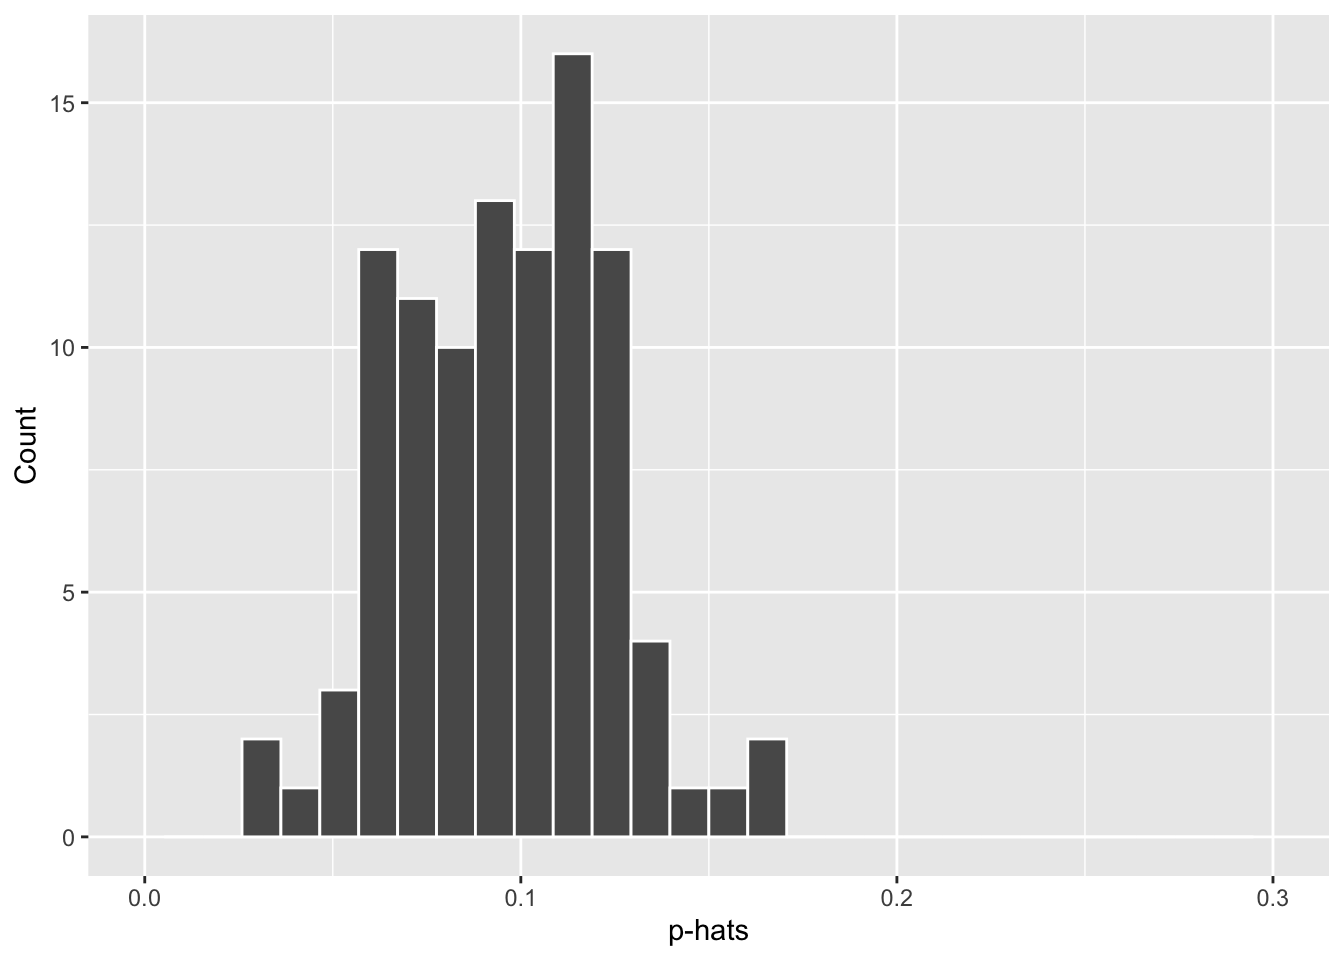
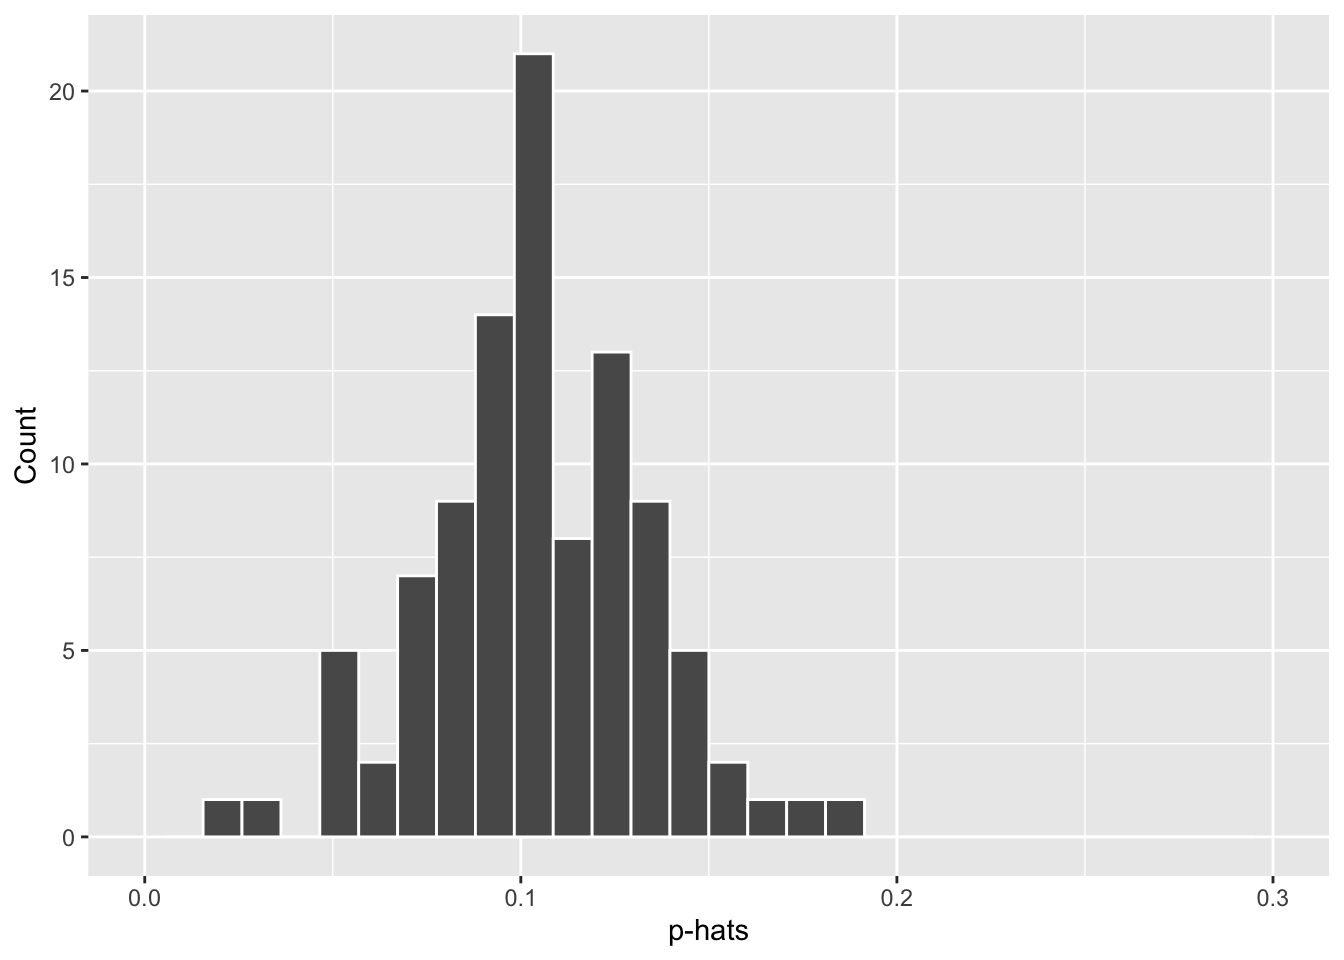
Updates

diff --git a/docs/success-failure-condition.html b/docs/success-failure-condition.html
@@ -186,11 +186,11 @@ thumb is easy enough to follow, but it makes you wonder: what's so special about
 <p>Using the numerical and graphical summaries below, describe the sampling distribution of sample proportions at <span class="math inline">\(n=100\)</span> and <span class="math inline">\(p=0.1\)</span>. Be sure to note the centre, spread, and shape.</p>
 <p><img src="main_files/figure-html/plotex6-1.png" width="672" style="display: block; margin: auto;" /></p>
 <pre><code>##    Min. 1st Qu.  Median    Mean 3rd Qu.    Max. 
-## 0.03087 0.07413 0.09726 0.09562 0.11641 0.16842</code></pre>
+## 0.02339 0.08862 0.10223 0.10472 0.12438 0.18306</code></pre>
 <p><br></p>
 <strong>Describe the sampling distribution of sample proportions at n=100 and p=0.1. Consider the centre, spread, and shape.</strong>
-<div id="radio_NRXOWRNGPI" class="webex-radiogroup">
-<label><input type="radio" autocomplete="off" name="radio_NRXOWRNGPI" value="answer"></input> <span>The distribution seems approximately Normal, centred around the mean (approximately equal to p) and a relatively large spread/standard deviation since n=100 isn’t particularly large.</span></label><label><input type="radio" autocomplete="off" name="radio_NRXOWRNGPI" value=""></input> <span>The distribution seems approximately Poisson, centred around the mean (approximately equal to p) and a relatively large spread/standard deviation since n=100 isn’t particularly large.</span></label><label><input type="radio" autocomplete="off" name="radio_NRXOWRNGPI" value=""></input> <span>The distribution seems approximately Binomial, centred around the median and a tiny spread/standard deviation since n=100 is huge.</span></label><label><input type="radio" autocomplete="off" name="radio_NRXOWRNGPI" value=""></input> <span>The distribution seems approximately Normal, centred around n=100 and a relatively large spread/standard deviation since n=100 isn’t particularly large.</span></label>
+<div id="radio_YITNZOBRLM" class="webex-radiogroup">
+<label><input type="radio" autocomplete="off" name="radio_YITNZOBRLM" value=""></input> <span>The distribution seems approximately Binomial, centred around the median and a tiny spread/standard deviation since n=100 is huge.</span></label><label><input type="radio" autocomplete="off" name="radio_YITNZOBRLM" value="answer"></input> <span>The distribution seems approximately Normal, centred around the mean (approximately equal to p) and a relatively large spread/standard deviation since n=100 isn’t particularly large.</span></label><label><input type="radio" autocomplete="off" name="radio_YITNZOBRLM" value=""></input> <span>The distribution seems approximately Poisson, centred around the mean (approximately equal to p) and a relatively large spread/standard deviation since n=100 isn’t particularly large.</span></label><label><input type="radio" autocomplete="off" name="radio_YITNZOBRLM" value=""></input> <span>The distribution seems approximately Normal, centred around n=100 and a relatively large spread/standard deviation since n=100 isn’t particularly large.</span></label>
 </div>
 <div class="webex-solution">
 <button>
@@ -211,8 +211,8 @@ Hint
 <span id="cb29-9"><a href="success-failure-condition.html#cb29-9" aria-hidden="true" tabindex="-1"></a>  <span class="fu">labs</span>(<span class="at">y =</span><span class="st">&quot;Count&quot;</span>, <span class="at">x =</span> <span class="st">&quot;p-hats&quot;</span>)</span></code></pre></div>
 <p><br></p>
 <strong>How does <span class="math inline">\(n\)</span> appear to affect the distribution of p-hat?</strong>
-<div id="radio_ETTRJWFYUN" class="webex-radiogroup">
-<label><input type="radio" autocomplete="off" name="radio_ETTRJWFYUN" value=""></input> <span>An increase in n appears to give a wider, more spread out distribution of p-hat.</span></label><label><input type="radio" autocomplete="off" name="radio_ETTRJWFYUN" value="answer"></input> <span>A decrease in n does not appear to affect the centre/symmetric point of the graph, however it does result in a much wider/more spread out distribution.</span></label><label><input type="radio" autocomplete="off" name="radio_ETTRJWFYUN" value=""></input> <span>There doesn't seem to be any significant effect of n on p-hat.</span></label><label><input type="radio" autocomplete="off" name="radio_ETTRJWFYUN" value=""></input> <span>An increase/decrease in n appears to shift the centre point of the distribution left/right.</span></label>
+<div id="radio_KHQPWNYYRA" class="webex-radiogroup">
+<label><input type="radio" autocomplete="off" name="radio_KHQPWNYYRA" value=""></input> <span>There doesn't seem to be any significant effect of n on p-hat.</span></label><label><input type="radio" autocomplete="off" name="radio_KHQPWNYYRA" value=""></input> <span>An increase/decrease in n appears to shift the centre point of the distribution left/right.</span></label><label><input type="radio" autocomplete="off" name="radio_KHQPWNYYRA" value="answer"></input> <span>A decrease in n does not appear to affect the centre/symmetric point of the graph, however it does result in a much wider/more spread out distribution.</span></label><label><input type="radio" autocomplete="off" name="radio_KHQPWNYYRA" value=""></input> <span>An increase in n appears to give a wider, more spread out distribution of p-hat.</span></label>
 </div>
 <div class="webex-solution">
 <button>
@@ -233,8 +233,8 @@ Hint
 <span id="cb30-9"><a href="success-failure-condition.html#cb30-9" aria-hidden="true" tabindex="-1"></a>  <span class="fu">labs</span>(<span class="at">y =</span><span class="st">&quot;Count&quot;</span>, <span class="at">x =</span> <span class="st">&quot;p-hats&quot;</span>)</span></code></pre></div>
 <p><br></p>
 <strong>How does <span class="math inline">\(p\)</span> appear to affect the distribution of p-hat?</strong>
-<div id="radio_RKPHTBKXCS" class="webex-radiogroup">
-<label><input type="radio" autocomplete="off" name="radio_RKPHTBKXCS" value="answer"></input> <span>A decrease in p does not appear to affect the width, however the centre/symmetric point shifts.</span></label><label><input type="radio" autocomplete="off" name="radio_RKPHTBKXCS" value=""></input> <span>There doesn't seem to be any significant effect of p on p-hat.</span></label><label><input type="radio" autocomplete="off" name="radio_RKPHTBKXCS" value=""></input> <span>Increasing p shifts the centre/symmetric point of the distribution to the left.</span></label><label><input type="radio" autocomplete="off" name="radio_RKPHTBKXCS" value=""></input> <span>The width/spread of the distribution also decreases as p decreases.</span></label>
+<div id="radio_NKUGXOMLKQ" class="webex-radiogroup">
+<label><input type="radio" autocomplete="off" name="radio_NKUGXOMLKQ" value=""></input> <span>There doesn't seem to be any significant effect of p on p-hat.</span></label><label><input type="radio" autocomplete="off" name="radio_NKUGXOMLKQ" value="answer"></input> <span>A decrease in p does not appear to affect the width, however the centre/symmetric point shifts.</span></label><label><input type="radio" autocomplete="off" name="radio_NKUGXOMLKQ" value=""></input> <span>Increasing p shifts the centre/symmetric point of the distribution to the left.</span></label><label><input type="radio" autocomplete="off" name="radio_NKUGXOMLKQ" value=""></input> <span>The width/spread of the distribution also decreases as p decreases.</span></label>
 </div>
 <div class="webex-solution">
 <button>

diff --git a/docs/how-does-the-proportion-affect-the-margin-of-error.html b/docs/how-does-the-proportion-affect-the-margin-of-error.html
@@ -202,8 +202,8 @@ Since the population proportion <span class="math inline">\(p\)</span> is in thi
 <p><img src="main_files/figure-html/me-plot-1.png" width="672" style="display: block; margin: auto;" /></p>
 <p><br></p>
 <strong>How would you describe the relationship between <code>p</code> and <code>ME</code>?</strong>
-<div id="radio_DMGXFUPCIZ" class="webex-radiogroup">
-<label><input type="radio" autocomplete="off" name="radio_DMGXFUPCIZ" value="answer"></input> <span>p and ME have a quadratic or parabolic relationship.</span></label><label><input type="radio" autocomplete="off" name="radio_DMGXFUPCIZ" value=""></input> <span>They have a linear relationship.</span></label><label><input type="radio" autocomplete="off" name="radio_DMGXFUPCIZ" value=""></input> <span>p and ME do not appear to be related.</span></label><label><input type="radio" autocomplete="off" name="radio_DMGXFUPCIZ" value=""></input> <span>They have an inverse cubic relationship.</span></label>
+<div id="radio_ZMRIORYWRI" class="webex-radiogroup">
+<label><input type="radio" autocomplete="off" name="radio_ZMRIORYWRI" value=""></input> <span>They have an inverse cubic relationship.</span></label><label><input type="radio" autocomplete="off" name="radio_ZMRIORYWRI" value=""></input> <span>p and ME do not appear to be related.</span></label><label><input type="radio" autocomplete="off" name="radio_ZMRIORYWRI" value="answer"></input> <span>p and ME have a quadratic or parabolic relationship.</span></label><label><input type="radio" autocomplete="off" name="radio_ZMRIORYWRI" value=""></input> <span>They have a linear relationship.</span></label>
 </div>
 <div class="webex-solution">
 <button>
@@ -213,8 +213,8 @@ Hint
 </div>
 <p><br></p>
 <strong>Select the incorrect statement about the p/me equation/graph.</strong>
-<div id="radio_TMCTTGZGDM" class="webex-radiogroup">
-<label><input type="radio" autocomplete="off" name="radio_TMCTTGZGDM" value=""></input> <span>If we were to increase the sample size n, the range of possible values for the margin of error would decrease.</span></label><label><input type="radio" autocomplete="off" name="radio_TMCTTGZGDM" value="answer"></input> <span>Changing the value of n would make no difference to the graph.</span></label><label><input type="radio" autocomplete="off" name="radio_TMCTTGZGDM" value=""></input> <span>If we lower our confidence value, say from 95% to 90%, the range of plausible values for the margin of error would decrease.</span></label><label><input type="radio" autocomplete="off" name="radio_TMCTTGZGDM" value=""></input> <span>You can work out exactly for which value of p the margin of error is maximised mathematically using differentiation.</span></label>
+<div id="radio_MZKECTMTGO" class="webex-radiogroup">
+<label><input type="radio" autocomplete="off" name="radio_MZKECTMTGO" value="answer"></input> <span>Changing the value of n would make no difference to the graph.</span></label><label><input type="radio" autocomplete="off" name="radio_MZKECTMTGO" value=""></input> <span>If we lower our confidence value, say from 95% to 90%, the range of plausible values for the margin of error would decrease.</span></label><label><input type="radio" autocomplete="off" name="radio_MZKECTMTGO" value=""></input> <span>You can work out exactly for which value of p the margin of error is maximised mathematically using differentiation.</span></label><label><input type="radio" autocomplete="off" name="radio_MZKECTMTGO" value=""></input> <span>If we were to increase the sample size n, the range of possible values for the margin of error would decrease.</span></label>
 </div>
 <div class="webex-solution">
 <button>
@@ -226,8 +226,8 @@ Hint
 <p>Is this the relationship you expected based on the formula <span class="math inline">\(ME = 1.96\times\sqrt{p(1-p)/n} \,\)</span> ?</p>
 <p><br></p>
 <strong>For a given sample size, for which value of <span class="math inline">\(p\)</span> is the margin of error (<span class="math inline">\(ME\)</span>) maximized?</strong>
-<div id="radio_STCIYKFLIE" class="webex-radiogroup">
-<label><input type="radio" autocomplete="off" name="radio_STCIYKFLIE" value="answer"></input> <span>ME is maximised when p = 0.5</span></label><label><input type="radio" autocomplete="off" name="radio_STCIYKFLIE" value=""></input> <span>ME is maximised when p = 1</span></label><label><input type="radio" autocomplete="off" name="radio_STCIYKFLIE" value=""></input> <span>ME is maximised when p = 0.33, or a third.</span></label><label><input type="radio" autocomplete="off" name="radio_STCIYKFLIE" value=""></input> <span>ME is maximised when p = 0</span></label>
+<div id="radio_OASGBICWME" class="webex-radiogroup">
+<label><input type="radio" autocomplete="off" name="radio_OASGBICWME" value=""></input> <span>ME is maximised when p = 0.33, or a third.</span></label><label><input type="radio" autocomplete="off" name="radio_OASGBICWME" value=""></input> <span>ME is maximised when p = 1</span></label><label><input type="radio" autocomplete="off" name="radio_OASGBICWME" value="answer"></input> <span>ME is maximised when p = 0.5</span></label><label><input type="radio" autocomplete="off" name="radio_OASGBICWME" value=""></input> <span>ME is maximised when p = 0</span></label>
 </div>
 <div class="webex-solution">
 <button>

diff --git a/docs/inference-on-proportions.html b/docs/inference-on-proportions.html
@@ -216,8 +216,8 @@ Solution
 </div>
 <p><br></p>
 <strong>What could you interpret from this confidence interval?</strong>
-<div id="radio_LBBVRVSTHI" class="webex-radiogroup">
-<label><input type="radio" autocomplete="off" name="radio_LBBVRVSTHI" value=""></input> <span>The proportion we calculated in outside of the interval calculated here, therefore we cannot make any valid interpretations.</span></label><label><input type="radio" autocomplete="off" name="radio_LBBVRVSTHI" value="answer"></input> <span>We are 95% confident the true proportion of non-helmet wearing students that texted while driving in all 30 of the previous 30 days is somewhere between 0.069 and 0.084.</span></label><label><input type="radio" autocomplete="off" name="radio_LBBVRVSTHI" value=""></input> <span>We are 95% confident the true proportion of non-helmet wearing students that texted while driving in all 30 of the previous 30 days is exactly 0.076, since this is inside the confidence interval.</span></label><label><input type="radio" autocomplete="off" name="radio_LBBVRVSTHI" value=""></input> <span>We are 90% confident the true proportion of non-helmet wearing students that texted while driving in all 30 of the previous 30 days is somewhere between 0.069 and 0.084.</span></label>
+<div id="radio_RSSJPBJFBN" class="webex-radiogroup">
+<label><input type="radio" autocomplete="off" name="radio_RSSJPBJFBN" value=""></input> <span>We are 90% confident the true proportion of non-helmet wearing students that texted while driving in all 30 of the previous 30 days is somewhere between 0.069 and 0.084.</span></label><label><input type="radio" autocomplete="off" name="radio_RSSJPBJFBN" value="answer"></input> <span>We are 95% confident the true proportion of non-helmet wearing students that texted while driving in all 30 of the previous 30 days is somewhere between 0.069 and 0.084.</span></label><label><input type="radio" autocomplete="off" name="radio_RSSJPBJFBN" value=""></input> <span>The proportion we calculated in outside of the interval calculated here, therefore we cannot make any valid interpretations.</span></label><label><input type="radio" autocomplete="off" name="radio_RSSJPBJFBN" value=""></input> <span>We are 95% confident the true proportion of non-helmet wearing students that texted while driving in all 30 of the previous 30 days is exactly 0.076, since this is inside the confidence interval.</span></label>
 </div>
 <div class="webex-solution">
 <button>
@@ -325,8 +325,8 @@ Solution (b)
 </div>
 <p><br></p>
 <strong>How could you compare the two CI for proportions calculated above?</strong>
-<div id="radio_TPAPFZENKV" class="webex-radiogroup">
-<label><input type="radio" autocomplete="off" name="radio_TPAPFZENKV" value=""></input> <span>The CI for the proportion of non-helmet wearing strength trainers seems far wider than the CI for the proportion of non-helmet wearing students with less than 5 hours sleep.</span></label><label><input type="radio" autocomplete="off" name="radio_TPAPFZENKV" value=""></input> <span>The proportion of non-helmet wearing strength trainers probably equals the proportion of non-helmet wearing students that gets less than 5 hours sleep.</span></label><label><input type="radio" autocomplete="off" name="radio_TPAPFZENKV" value=""></input> <span>We can make no comparisons between the two groups whatsoever at this stage of the analysis.</span></label><label><input type="radio" autocomplete="off" name="radio_TPAPFZENKV" value="answer"></input> <span>The proportion of non helmet wearing strength trainers is probably much greater than the proportion of non-helmet wearing people with less than 5 hours sleep, since the CI is far above.</span></label>
+<div id="radio_ZDWBFTNBDR" class="webex-radiogroup">
+<label><input type="radio" autocomplete="off" name="radio_ZDWBFTNBDR" value=""></input> <span>We can make no comparisons between the two groups whatsoever at this stage of the analysis.</span></label><label><input type="radio" autocomplete="off" name="radio_ZDWBFTNBDR" value="answer"></input> <span>The proportion of non helmet wearing strength trainers is probably much greater than the proportion of non-helmet wearing people with less than 5 hours sleep, since the CI is far above.</span></label><label><input type="radio" autocomplete="off" name="radio_ZDWBFTNBDR" value=""></input> <span>The CI for the proportion of non-helmet wearing strength trainers seems far wider than the CI for the proportion of non-helmet wearing students with less than 5 hours sleep.</span></label><label><input type="radio" autocomplete="off" name="radio_ZDWBFTNBDR" value=""></input> <span>The proportion of non-helmet wearing strength trainers probably equals the proportion of non-helmet wearing students that gets less than 5 hours sleep.</span></label>
 </div>
 <div class="webex-solution">
 <button>

diff --git a/docs/inference-for-categorical-data.html b/docs/inference-for-categorical-data.html
@@ -219,8 +219,8 @@ Solution
 </div>
 <p><br></p>
 <strong>Which category has the highest count?</strong>
-<div id="radio_ZCSRQQKSFH" class="webex-radiogroup">
-<label><input type="radio" autocomplete="off" name="radio_ZCSRQQKSFH" value="answer"></input> <span>0 of the last 30 days</span></label><label><input type="radio" autocomplete="off" name="radio_ZCSRQQKSFH" value=""></input> <span>6-9 of the last 30 days</span></label><label><input type="radio" autocomplete="off" name="radio_ZCSRQQKSFH" value=""></input> <span>All 30 of the last 30 days.</span></label><label><input type="radio" autocomplete="off" name="radio_ZCSRQQKSFH" value=""></input> <span>The students that didn't drive</span></label>
+<div id="radio_TXPCDCNTIW" class="webex-radiogroup">
+<label><input type="radio" autocomplete="off" name="radio_TXPCDCNTIW" value=""></input> <span>All 30 of the last 30 days.</span></label><label><input type="radio" autocomplete="off" name="radio_TXPCDCNTIW" value="answer"></input> <span>0 of the last 30 days</span></label><label><input type="radio" autocomplete="off" name="radio_TXPCDCNTIW" value=""></input> <span>6-9 of the last 30 days</span></label><label><input type="radio" autocomplete="off" name="radio_TXPCDCNTIW" value=""></input> <span>The students that didn't drive</span></label>
 </div>
 <div class="webex-solution">
 <button>
